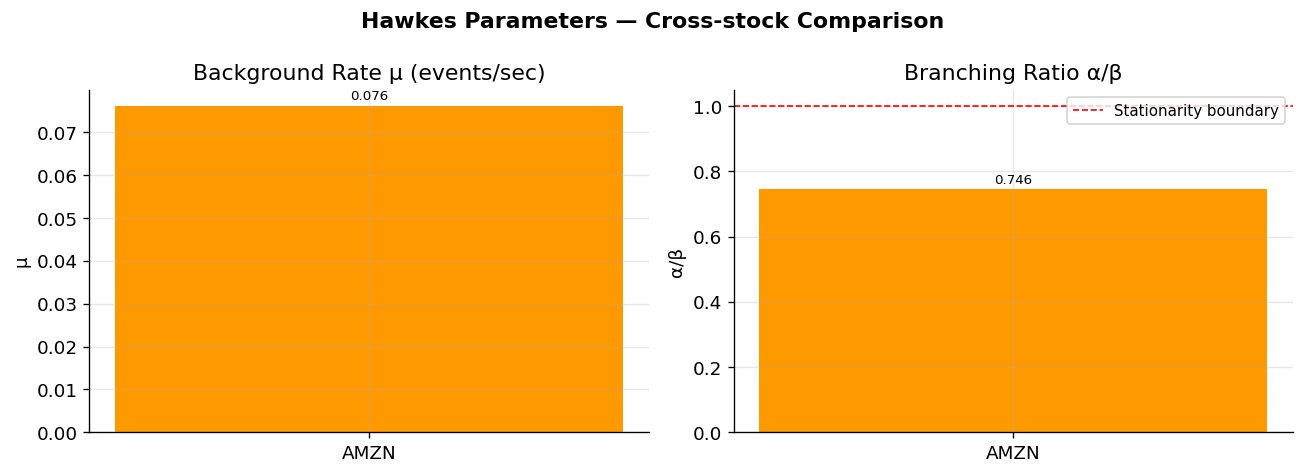
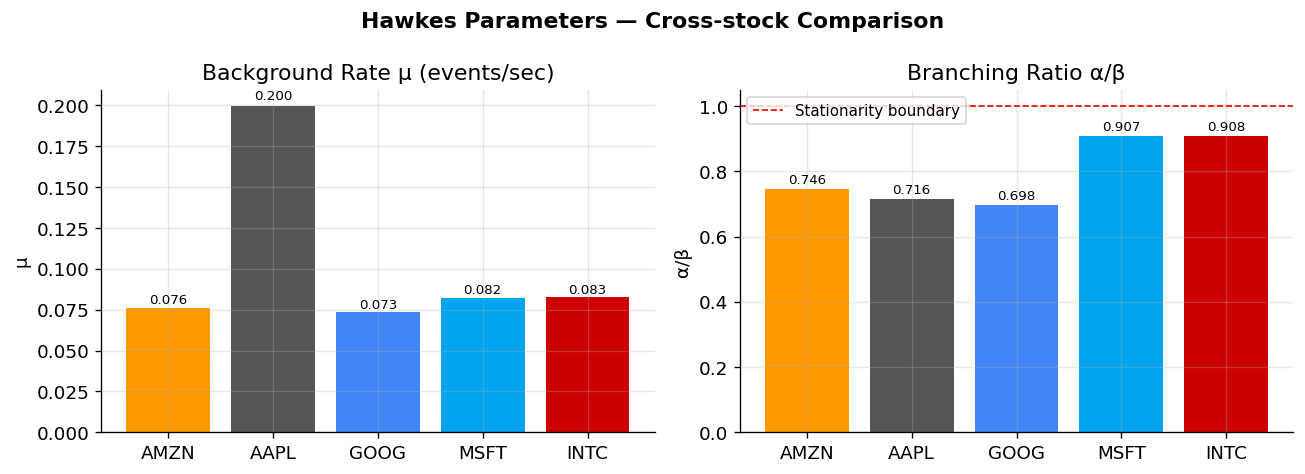
Ran main.py for all Stocks in LOBSTER 5 dataset and produced plots

diff --git a/main.py b/main.py
@@ -46,8 +46,8 @@ plt.rcParams.update({
     "font.size"       : 11,
 })
 
-# STOCKS   = ["AMZN", "AAPL", "GOOG", "MSFT", "INTC"]
-STOCKS = ["AMZN"]
+STOCKS   = ["AMZN", "AAPL", "GOOG", "MSFT", "INTC"]
+# STOCKS = ["AMZN"]
 COLORS   = {"AMZN": "#FF9900", "AAPL": "#555555", "GOOG": "#4285F4",
             "MSFT": "#00A4EF", "INTC": "#CC0000"}
 
